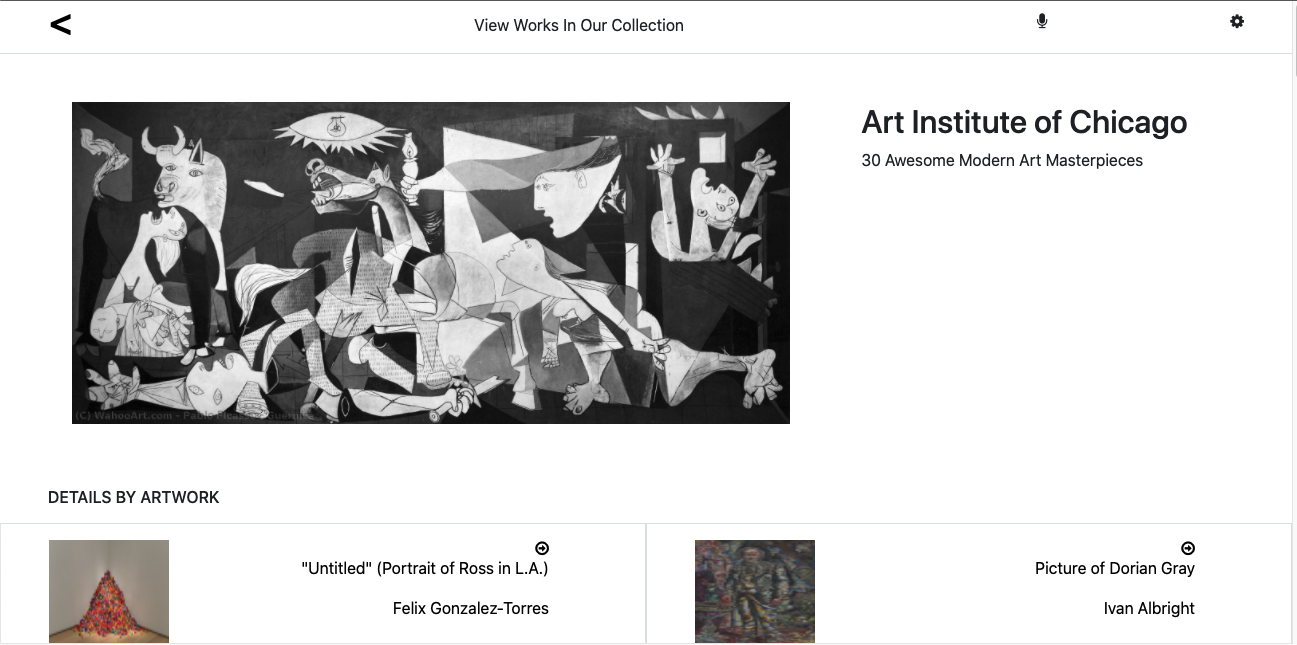
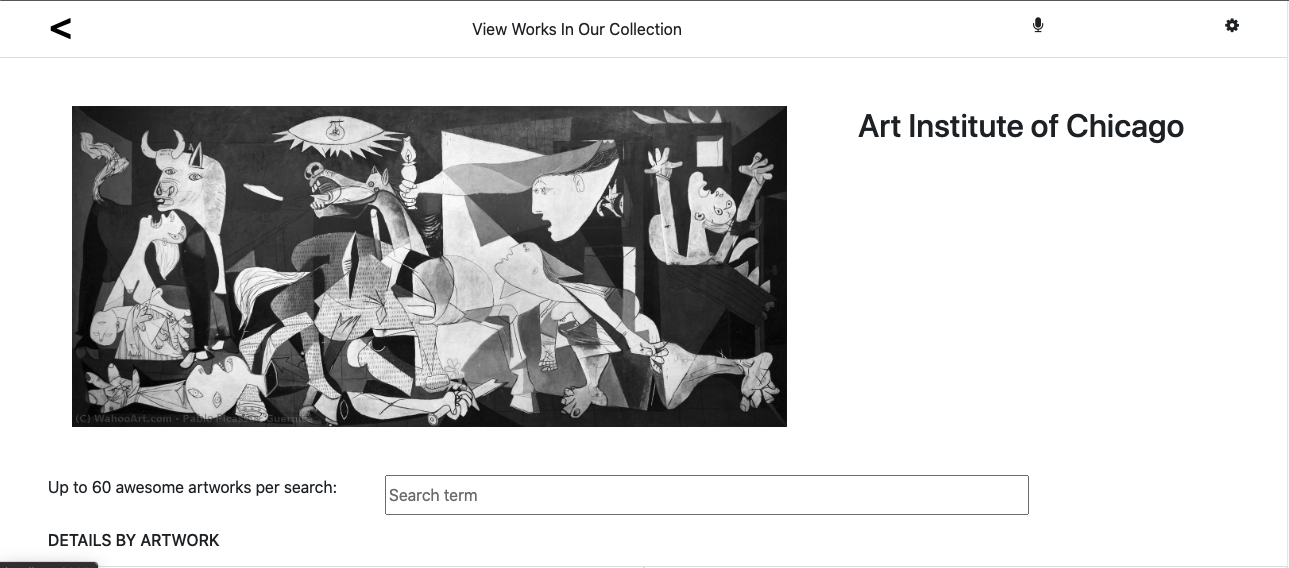
Improve images for presentation of project on ReadMe file

diff --git a/src/components/ArtworksContainer.js b/src/components/ArtworksContainer.js
@@ -22,13 +22,14 @@ const ArtworksContainer = () => {
   return (
     <div className="artworks-container">
       <ArtworksHeader />
-      <section className="d-flex flex-row" id="section__searchbar">
+      <section className="d-flex flex-row justify_content-around" id="section__searchbar">
         <p className="mx-5">Up to 60 awesome artworks per search:</p>
         <input
+          className="col-6"
           type="search"
           name="input__category"
           id="input__category"
-          placeholder="Search Category"
+          placeholder="Search term"
           onChange={onChangeSearchBar}
           value={searchValue}
         />

diff --git a/src/redux/artworksApi.js b/src/redux/artworksApi.js
@@ -11,7 +11,7 @@ const setArtworks = (payload) => ({
 });
 
 export const fetchArtworks = (category) => async (dispatch) => {
-  const response = await axios.get(`${baseURL}${category}&size=60&fields=id,image_id,title,date_display,artwork_type_title,dimensions,medium_display,department_title,artist_title,place_of_origin'`);
+  const response = await axios.get(`${baseURL}${category}&size=100&fields=id,image_id,title,date_display,artwork_type_title,dimensions,medium_display,department_title,artist_title,place_of_origin'`);
   dispatch(setArtworks(response.data.data));
 };
 

diff --git a/README.md b/README.md
@@ -2,8 +2,9 @@
 
 > "Modern-Art-Gallery" is a simple app that fetches Artworks in the Art Institute of Chicago from an API (`https://api.artic.edu/api/v1/artworks`) and displays their image as well as their title and creator data. It also allows for the user to select a specific artwork by clicking on it and to display more information on it ( date, type of artwork, dimensions, medium, provenance of artist, category in which the artwork is included).
 
-![Artworks](/src/assets/Screenshot1.png?raw=true "Artworks display")
-![Artworks](/src/assets/Screenshot2.png?raw=true "Artworks display")
+![AIC Home](/src/assets/Screenshot1.png?raw=true "AIC Home")
+![Search results](/src/assets/Screenshot2.png?raw=true "Search results")
+![Artwork in detail](/src/assets/Screenshot2.png?raw=true "Artwork in detail")
 
 ### Live Demo
 
